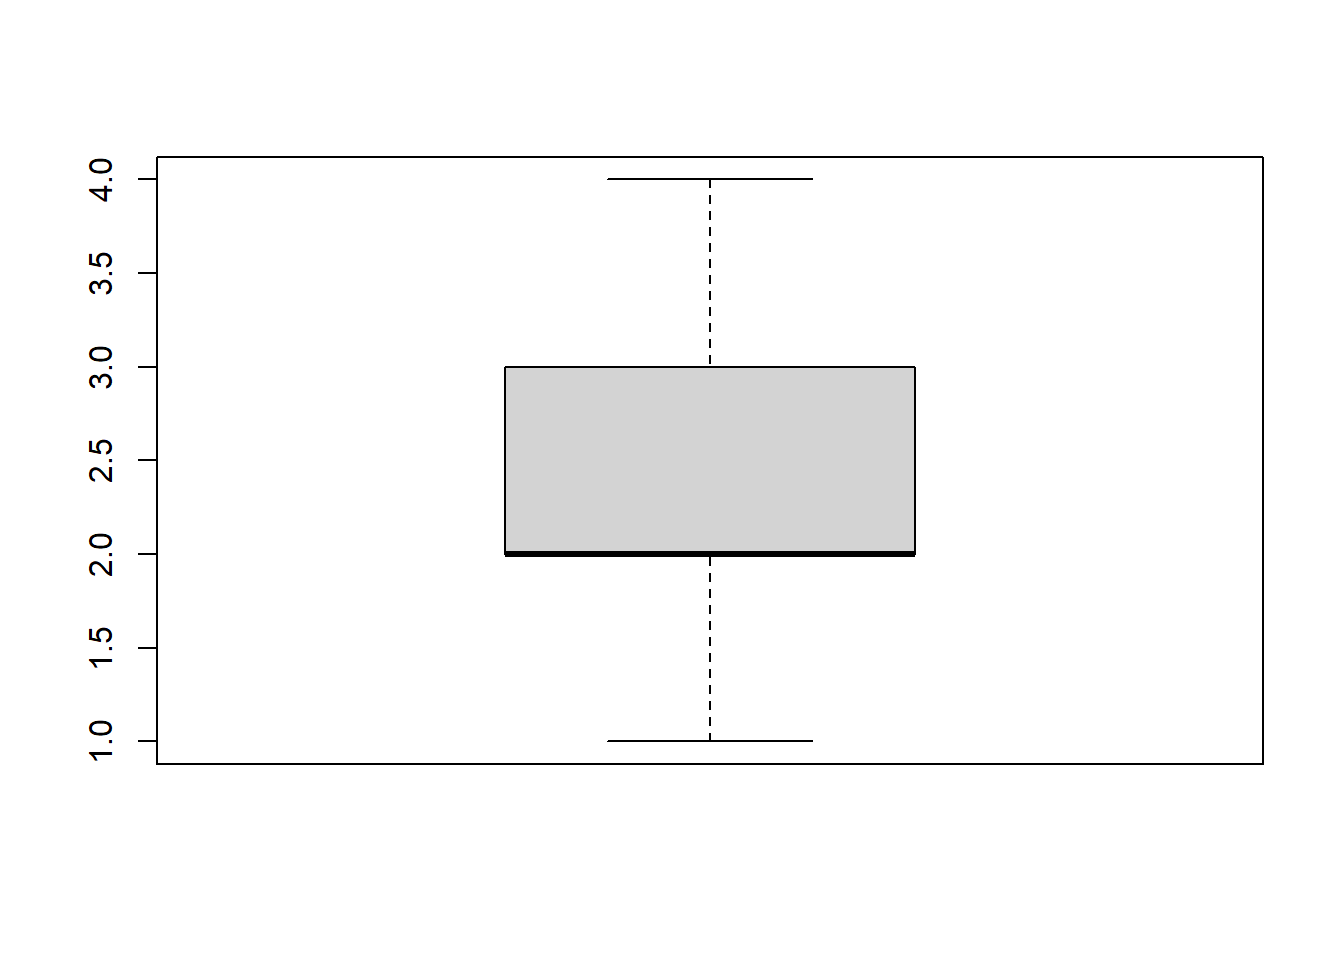
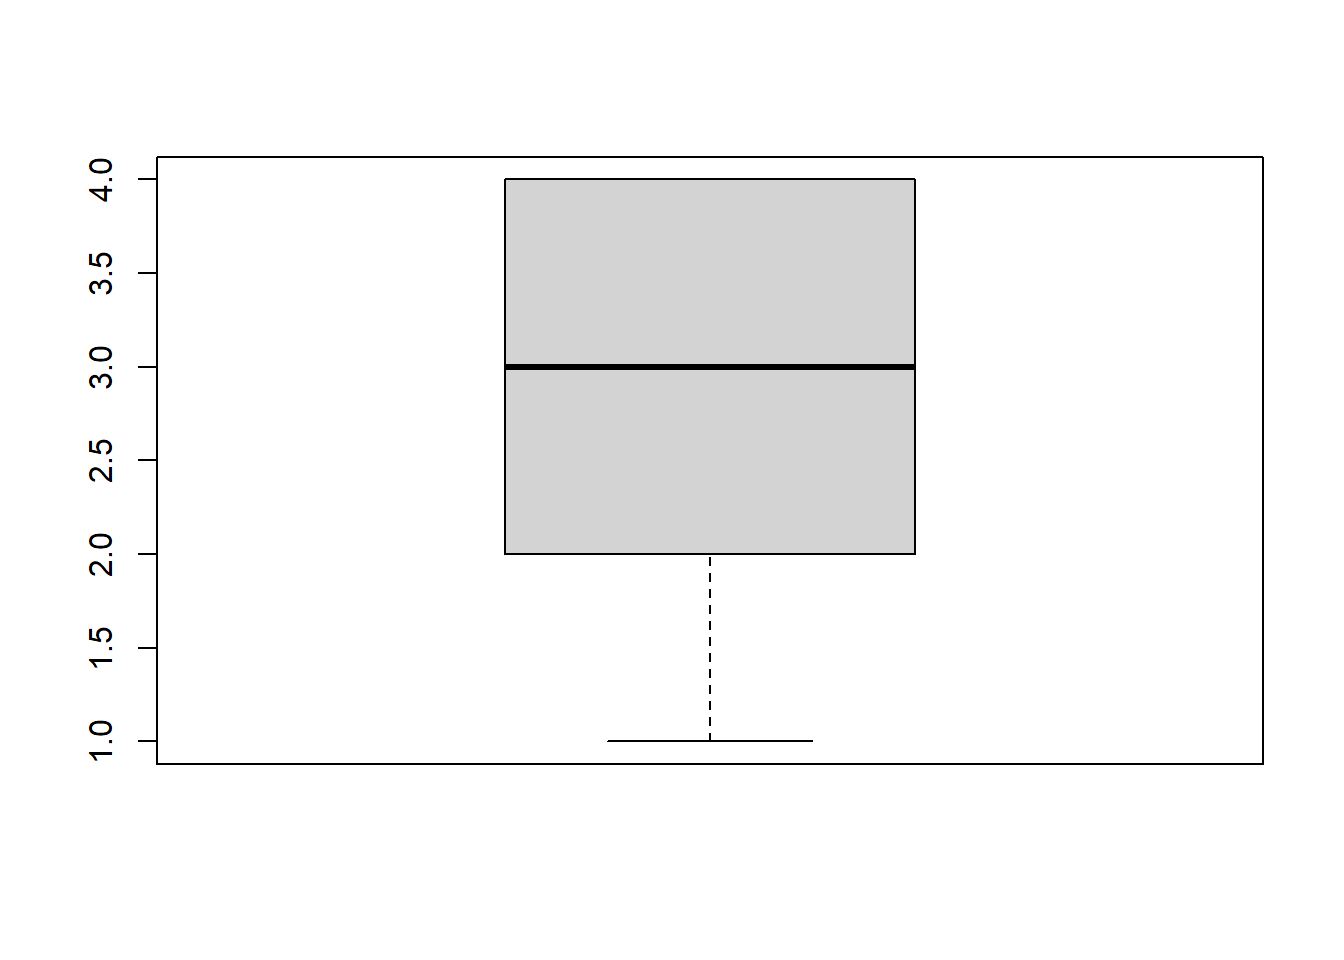
Last changes in descriptive nominal tutorial before availability of real 21 data.

Changed region(s): [[0.375, 0.1875, 0.6875, 0.4062], [0.375, 0.5625, 0.6875, 0.5938]]

diff --git a/content/post/2021-09-21-deskriptivstatistik-fuer-nominal-und-ordinalskalen.html b/content/post/2021-09-21-deskriptivstatistik-fuer-nominal-und-ordinalskalen.html
@@ -225,6 +225,7 @@ prop.table(tab)         # Relative</code></pre>
 <p><strong>Säulen- oder Balkendiagramm</strong></p>
 <pre class="r"><code>barplot(tab)</code></pre>
 <p>Die Grafik erscheint in der RStudio-Standardansicht “unten rechts” im Reiter “Plots”:</p>
+<p><img src="/post/plots_window.PNG" /></p>
 <p><img src="/post/2021-09-21-deskriptivstatistik-fuer-nominal-und-ordinalskalen_files/figure-html/unnamed-chunk-12-1.png" width="672" style="display: block; margin: auto;" /></p>
 <p><strong>Kuchendiagramm</strong></p>
 <pre class="r"><code>pie(tab)</code></pre>
@@ -292,7 +293,7 @@ prop.table(tab)         # Relative</code></pre>
 <p>Klicken Sie auf die Schaltfläche “Export” und dann auf “Save as Image”…</p>
 <p><img src="/post/Screenshot-Export.PNG" /></p>
 <p>…und spezifizieren Sie dann Dateiname (ggf. Pfad) und Größe/Größenverhältnis.</p>
-<p><img src="/post/Screenshot-Export2.PNG" /></p>
+<p><img src="/post/plot_export_2.PNG" /></p>
 <p>Wenn kein Pfad spezifiziert wird, erscheint die Datei in Ihrem aktuellen Arbeitsverzeichnis.</p>
 <p><img src="/post/Screenshot-jpeg.PNG" /></p>
 <p><em>Möglichkeit 2: Speichern mit der Funktion <code>jpeg("Dateiname.jpg")</code></em></p>
@@ -348,23 +349,24 @@ relinf</code></pre>
 <p>Zunächst aber eine Wiederholung: Wie Sie aus der Vorlesung wissen, könnnen die in der Tabelle am Anfang dieses Dokuments aufgeführten statistischen Kennwerte (Zentrale Lage, Dispersion) auch für Skalenniveaus genutzt werden, die “weiter unten” in der Tabelle stehen. Für ordinalskalierte Variablen (Rangklassen) kann also auch der Modus berechnet werden.</p>
 <p>Nachfolgend soll mit Item 1 des Prokrastinationsfragebogens gearbeitet werden. Es wurde wie folgt erhoben:</p>
 <p><img src="/post/fb_prok1.PNG" /></p>
-<p>Es treten die Werte 1 bis 4 empirisch auf, außerdem gibt es zwei fehlende Werte (dargestellt als <code>NA</code>):</p>
-<pre class="r"><code>fb21$prok1</code></pre>
-<pre><code>##  [1] 1 3 2 3 3 2 1 3 4 4 2 1 2 3 1 2 1 1 1 2 3 2 2 2 3 2 2 3 1 3 1 4 1 4 3 2 1 3
-## [39] 1 4 4 2 2 4 2 1 2 3 4 3 1 2 3 4 3 2 4 2 3 1 1 3 4 1 3 1 3 2 4 2 1 3 3 3 4 4
-## [77] 4 2 1 4 4 4 2 4 1 3 1 2 3 1 2 2 2 2 4 4 3</code></pre>
+<p>Es treten die Werte 1 bis 4 empirisch auf, außerdem gibt es 2 fehlende Werte (dargestellt als <code>NA</code>):</p>
+<pre class="r"><code>fb21$prok4</code></pre>
+<pre><code>##  [1]  3  4  4 NA  3  4  2  3  1  2  2  4  3  3  4 NA  3  2  3  4  3  3  1  1  1
+## [26]  4  1  1  3  3  4  2  4  4  4  2  4  2  1  1  3  1  2  3  4  2  1  4  2  3
+## [51]  3  4  1  4  4  2  3  2  1  4  4  3  1  2  4  1  3  4  4  3  2  4  4  1  4
+## [76]  4  2  1  1  2  4  2  1  2  3  2  2  1  3  2  2  1  2  3  1  3  4</code></pre>
 <p>Wiederholung:</p>
-<pre class="r"><code>table(fb21$prok1)               # Absolute Haeufigkeiten</code></pre>
+<pre class="r"><code>table(fb21$prok4)               # Absolute Haeufigkeiten</code></pre>
 <pre><code>## 
 ##  1  2  3  4 
-## 23 28 25 21</code></pre>
-<pre class="r"><code>prop.table(table(fb21$prok1))   # Relative Haeufigkeiten</code></pre>
+## 21 23 23 28</code></pre>
+<pre class="r"><code>prop.table(table(fb21$prok4))   # Relative Haeufigkeiten</code></pre>
 <pre><code>## 
 ##         1         2         3         4 
-## 0.2371134 0.2886598 0.2577320 0.2164948</code></pre>
-<pre class="r"><code>which.max(table(fb21$prok1))    # Modus</code></pre>
-<pre><code>## 2 
-## 2</code></pre>
+## 0.2210526 0.2421053 0.2421053 0.2947368</code></pre>
+<pre class="r"><code>which.max(table(fb21$prok4))    # Modus</code></pre>
+<pre><code>## 4 
+## 4</code></pre>
 </div>
 <div id="Fehlend" class="section level2">
 <h2>Fehlende Werte</h2>
@@ -404,31 +406,31 @@ relinf</code></pre>
 <div id="deskriptivstatistische-kennwerte-ab-ordinalskalenniveau" class="section level2">
 <h2>Deskriptivstatistische Kennwerte ab Ordinalskalenniveau</h2>
 <p><strong>Median für ordinalskalierte Variablen</strong></p>
-<pre class="r"><code>median(fb21$prok1)                 # Ohne Argument für NA: funktioniert nicht</code></pre>
-<pre><code>## [1] 2</code></pre>
-<pre class="r"><code>median(fb21$prok1, na.rm = TRUE)   # Expliziter Ausschluss: funktioniert</code></pre>
-<pre><code>## [1] 2</code></pre>
-<p>Der Median für die Variable <code>prok1</code> beträgt also 2.</p>
+<pre class="r"><code>median(fb21$prok4)                 # Ohne Argument für NA: funktioniert nicht</code></pre>
+<pre><code>## [1] NA</code></pre>
+<pre class="r"><code>median(fb21$prok4, na.rm = TRUE)   # Expliziter Ausschluss: funktioniert</code></pre>
+<pre><code>## [1] 3</code></pre>
+<p>Der Median für die Variable <code>prok4</code> beträgt also 3.</p>
 <p><strong>Quantile und IQB</strong></p>
 <p>Für eine Beschreibung der Dispersion wird häufig der Interquartilsbereich (IQB) genutzt. IQB ist der Bereich zwischen dem 1. und dem 3. Quartil. Auch dafür gibt es keine Funktion in <code>R</code>, das Dispersionsmaß kann aber einfach “per Hand” selbst berechnet werden:</p>
 <p><span class="math display">\[IQB = Q_3 - Q_1\]</span></p>
 <p>Um die Quartile oder jedes beliebige andere Quantil einer Verteilung zu erhalten, kann die Funktion <code>quantile()</code> verwendet werden:</p>
-<pre class="r"><code>quantile(fb21$prok1,
+<pre class="r"><code>quantile(fb21$prok4,
          c(.25, .5, .75),                   # Quartile anfordern
          na.rm = T)</code></pre>
 <pre><code>## 25% 50% 75% 
-##   2   2   3</code></pre>
+##   2   3   4</code></pre>
 <p>Zur Berechnung des IQB wird nun die Differenz aus drittem und erstem Quartil gebildet:</p>
-<pre class="r"><code>quantile(fb21$prok1, .75, na.rm=T) - quantile(fb21$prok1, .25, na.rm=T)</code></pre>
+<pre class="r"><code>quantile(fb21$prok4, .75, na.rm=T) - quantile(fb21$prok4, .25, na.rm=T)</code></pre>
 <pre><code>## 75% 
-##   1</code></pre>
-<p>Der IQB der Variable <code>prok1</code> beträgt 1.</p>
+##   2</code></pre>
+<p>Der IQB der Variable <code>prok4</code> beträgt 2.</p>
 <hr />
 </div>
 <div id="boxplots" class="section level2">
 <h2>Boxplots</h2>
 <p>Eine geeignete grafische Darstellungsform für (mindestens) ordinalskalierte Daten ist der Boxplot. Er kann über die Funktion <code>boxplot()</code> angefordert werden:</p>
-<pre class="r"><code>boxplot(fb21$prok1)</code></pre>
+<pre class="r"><code>boxplot(fb21$prok4)</code></pre>
 <p><img src="/post/2021-09-21-deskriptivstatistik-fuer-nominal-und-ordinalskalen_files/figure-html/unnamed-chunk-25-1.png" width="672" /></p>
 <p>Zur Erinnerung:</p>
 <ul>
@@ -439,12 +441,12 @@ relinf</code></pre>
 <li>Noch extremere Werte werden als Punkte dargestellt</li>
 </ul>
 <p>In diesem Beispiel betragen Median und Q3 jeweils 2, sodass sich die entsprechenden Linien überlagern. Ein Beispiel für einen “schöneren” Boxplot (ohne Überlagerung) ist dieses:</p>
-<pre class="r"><code>boxplot(fb21$prok1)</code></pre>
+<pre class="r"><code>boxplot(fb21$prok4)</code></pre>
 <p><img src="/post/2021-09-21-deskriptivstatistik-fuer-nominal-und-ordinalskalen_files/figure-html/unnamed-chunk-26-1.png" width="672" /></p>
 <p>Auch ein Boxplot kann grafisch angepasst werden. Nachfolgend sehen Sie ein Beispiel, in dem möglichst viel verändert wurde, um die verschiedenen Möglichkeiten aufzuzeigen. Nicht alle Veränderungen sind unbedingt sinnvoll.</p>
-<pre class="r"><code>boxplot(fb21$prok1,
+<pre class="r"><code>boxplot(fb21$prok4,
         horizontal = TRUE,
-        main = &quot;WS 2021/2022: Item prok1&quot;,
+        main = &quot;WS 2021/2022: Item prok4&quot;,
         xlab = &quot;Ausprägung&quot;,
         las = 1,
         width = 2,
